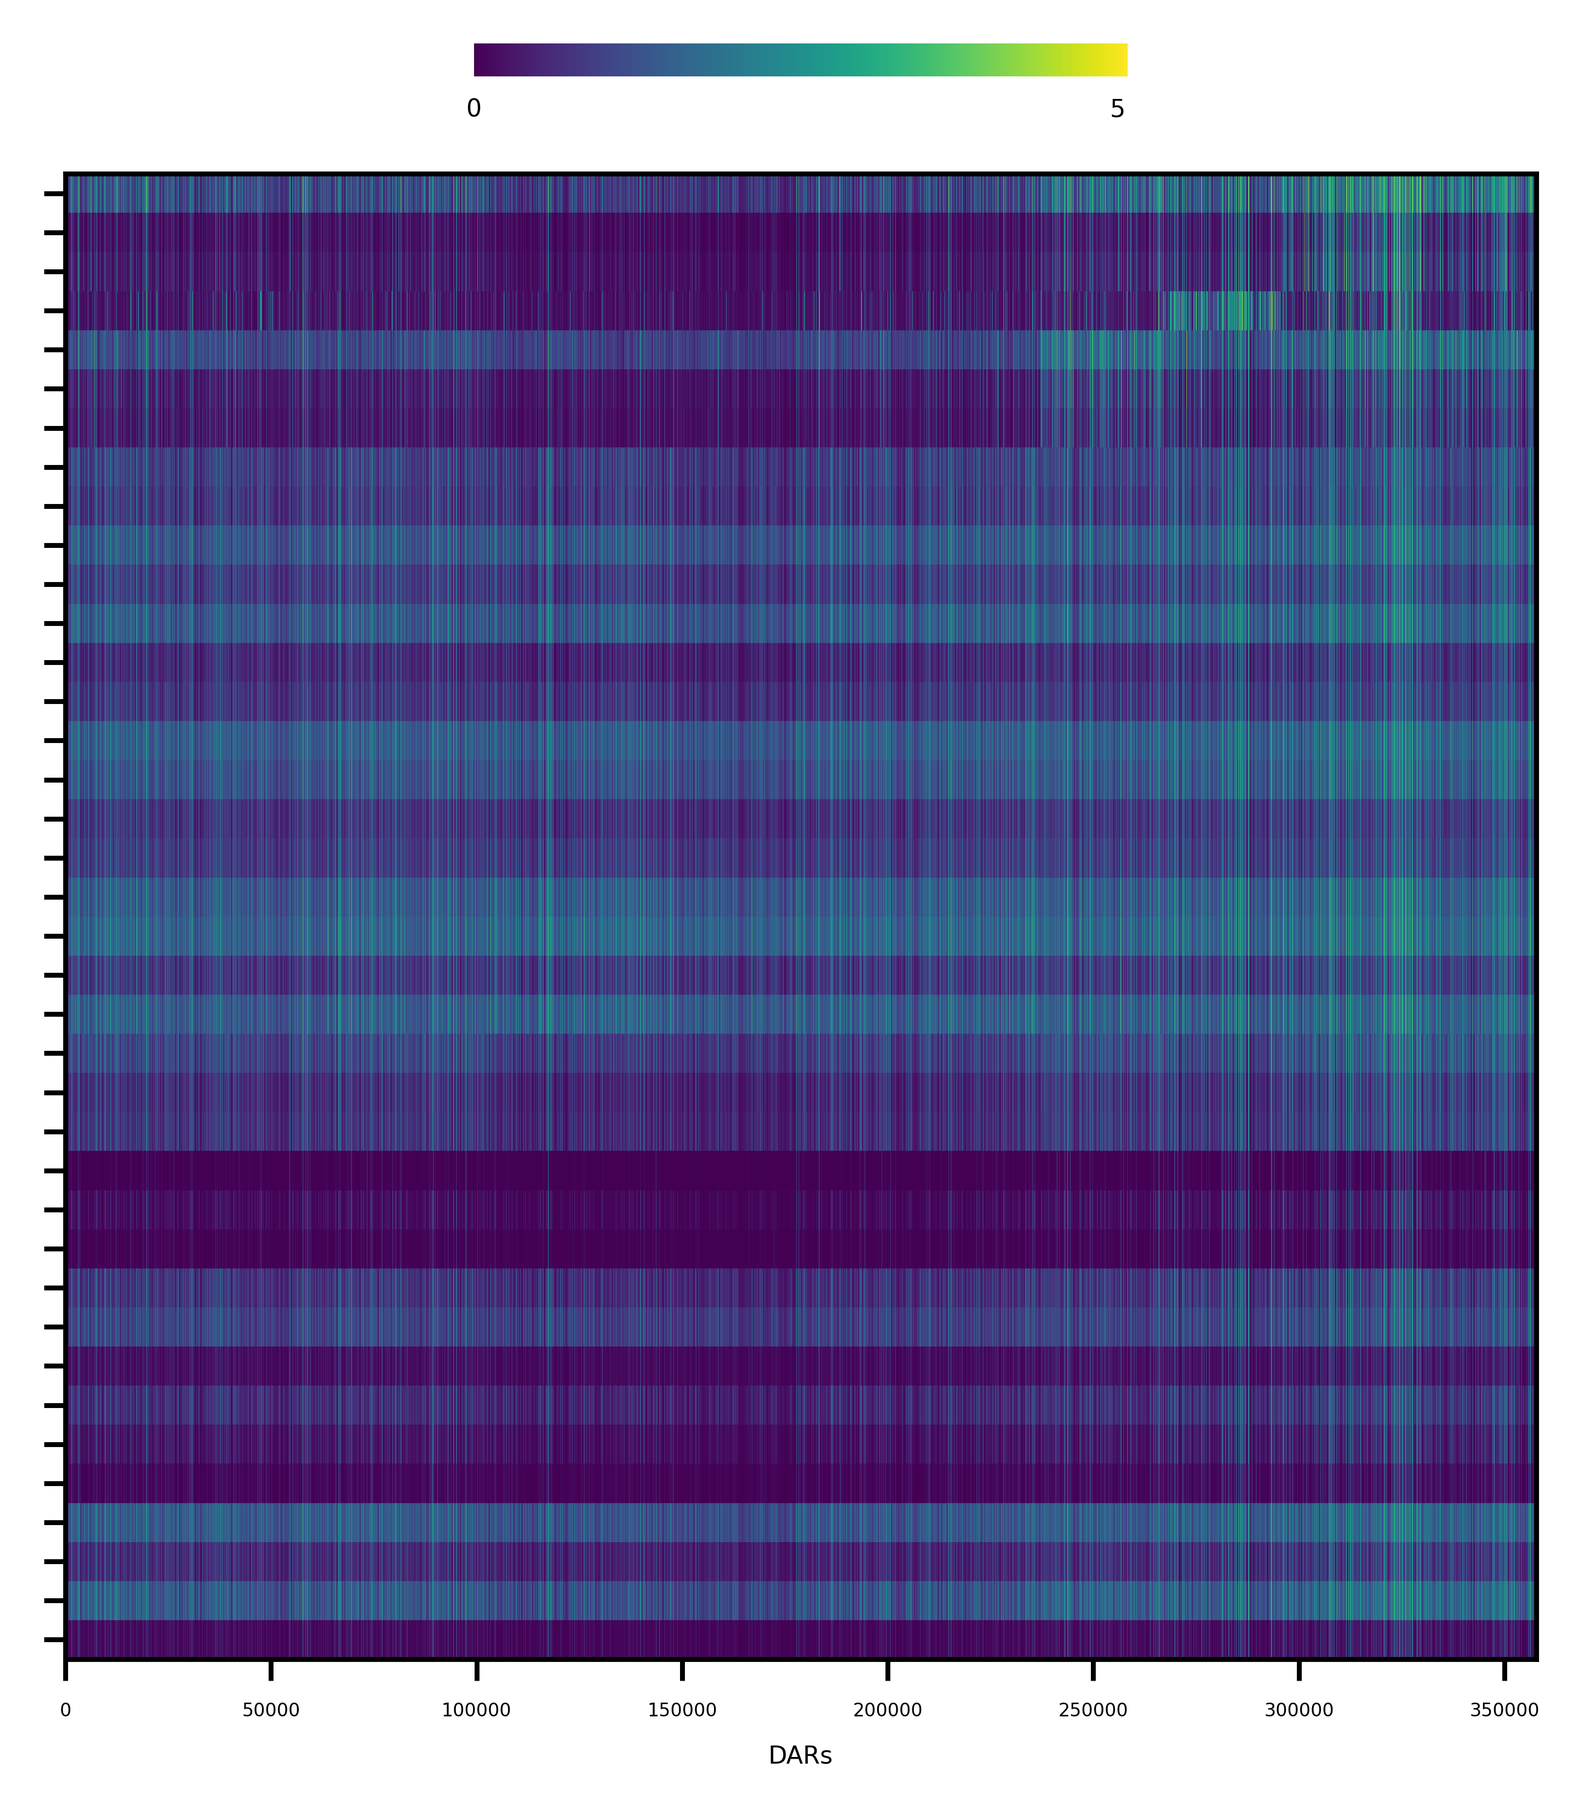
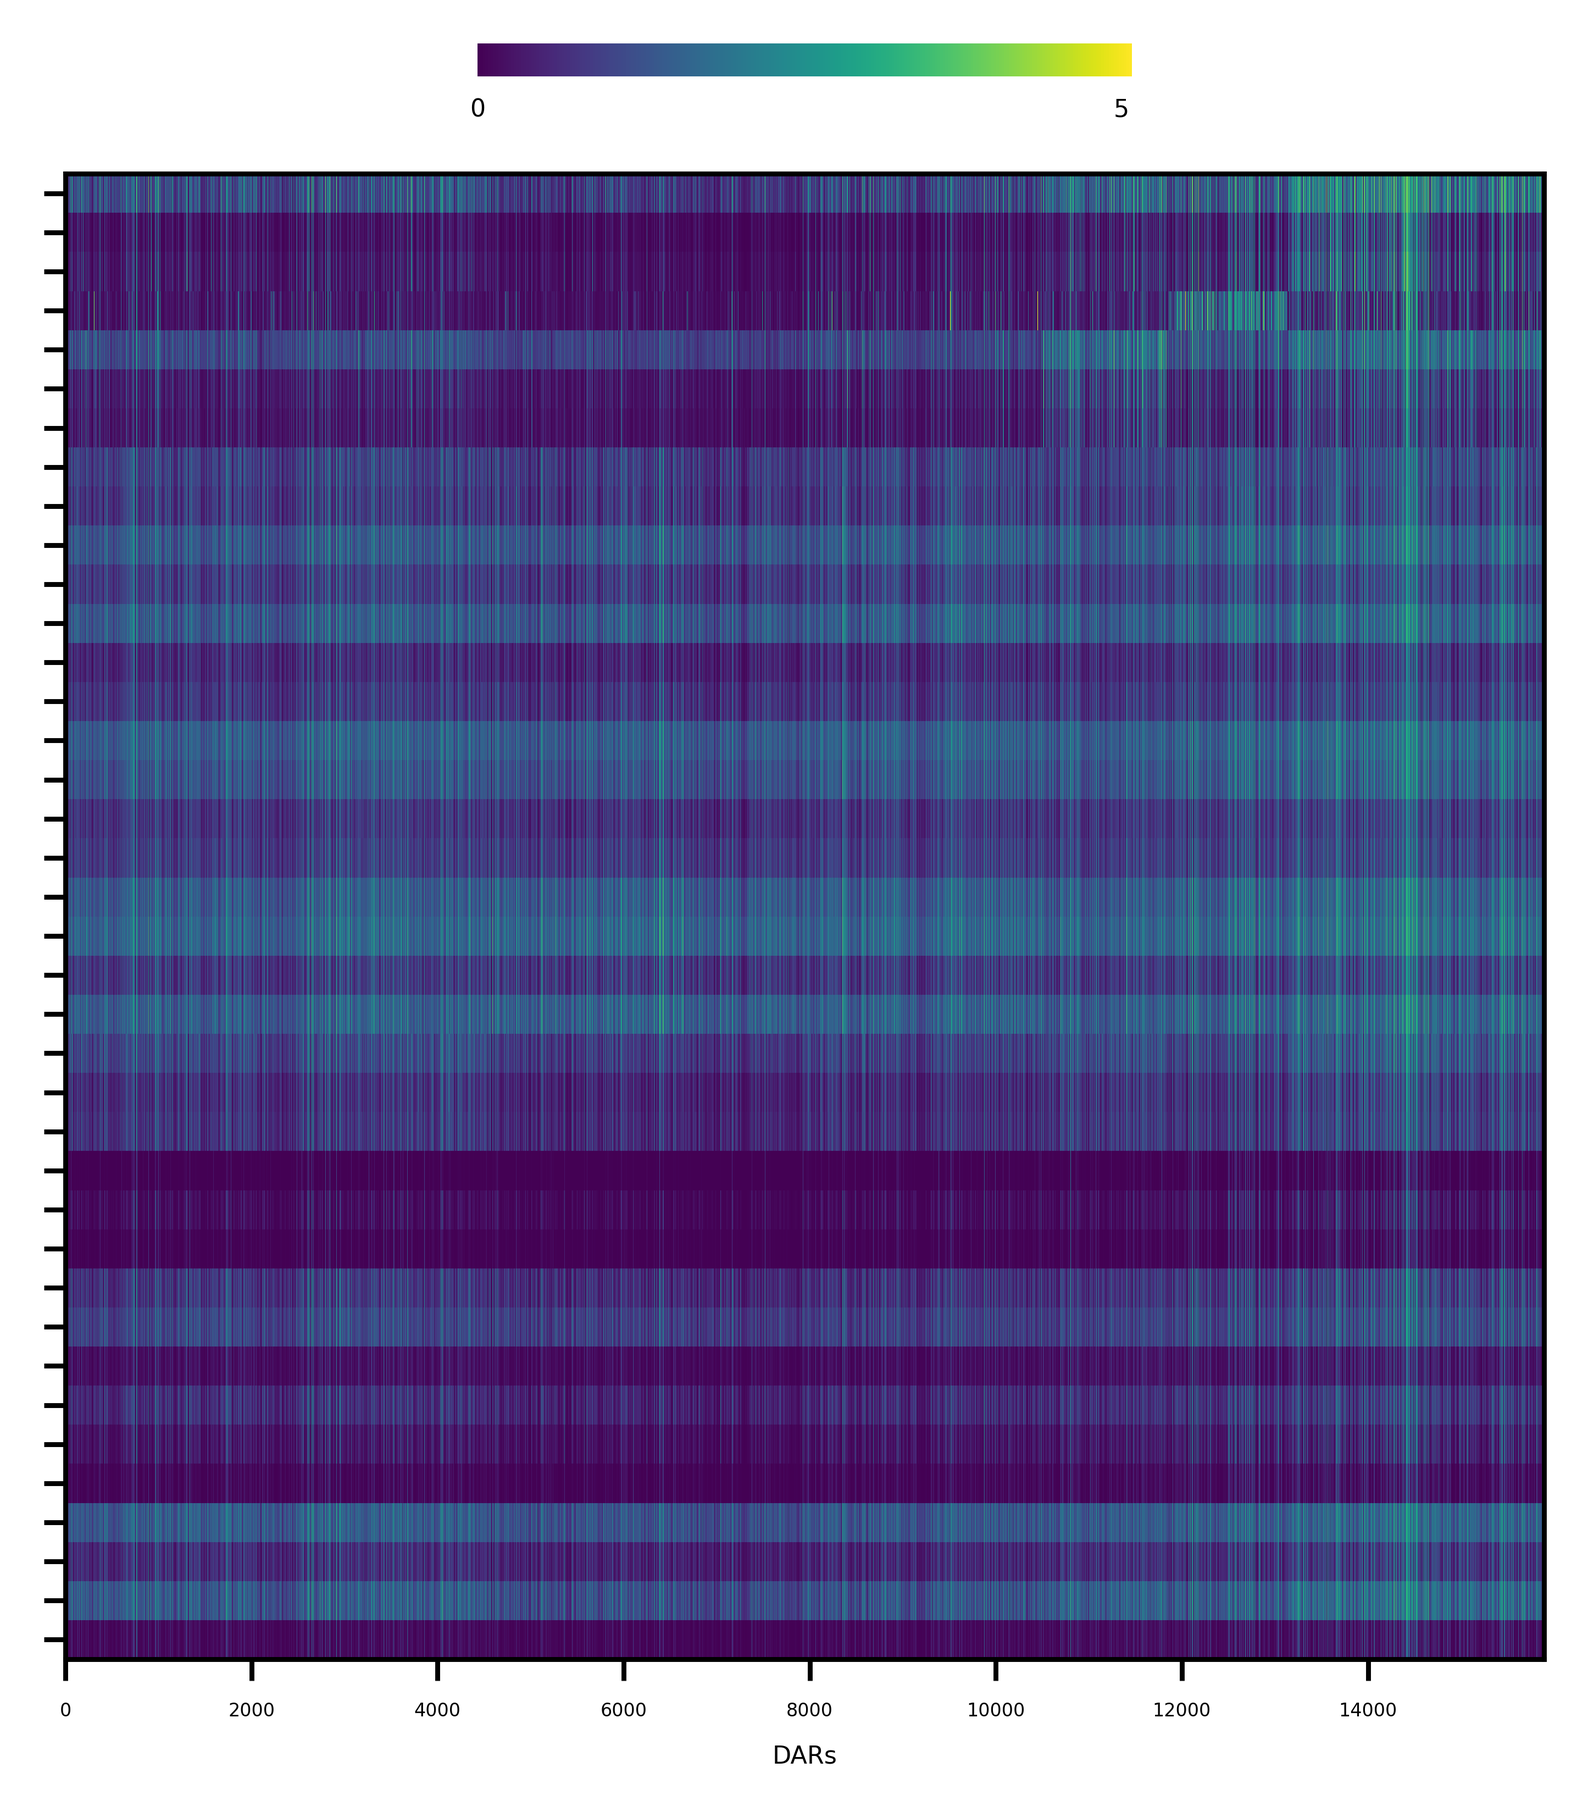
DAR plots

diff --git a/dar/correlation_per_DAR/AC-level/plot_correlation_test_DAR_aclevel.py b/dar/correlation_per_DAR/AC-level/plot_correlation_test_DAR_aclevel.py
@@ -21,59 +21,65 @@ df_correlations['Index1'] = df_correlations.index
 
 pred = np.loadtxt('/exports/humgen/idenhond/projects/dar/correlation_per_DAR/AC-level/Predictions_test_DAR_aclevel.csv',delimiter=',')
 target = np.loadtxt('/exports/humgen/idenhond/projects/dar/correlation_per_DAR/AC-level/Targets_test_DAR_aclevel.csv',delimiter=',')
-
-# fig, ax = plt.subplots()
-# plt.imshow(pred, interpolation='none', cmap='viridis', origin = 'lower', extent = [0, 357690, 0, 38], aspect=9500)
-# ax.set_yticks(np.arange(len(ac_labels)) + 0.5, ac_labels)
-# ax.set_yticklabels([], va='center', fontsize=4)
-# ax.xaxis.set_tick_params(labelsize=3)
-# cbar = plt.colorbar(shrink=0.3, orientation = "horizontal", location = 'top', fraction=0.026, pad=0.06)
-# cbar.outline.set_visible(False)
-# cbar.set_ticks([0, 5])
-# cbar.set_ticklabels([0, 5])
-# cbar.ax.tick_params(size=0, labelsize = 4)
-# cbar.ax.xaxis.set_ticks_position('bottom')
-# cbar.ax.xaxis.set_label_position('bottom')
-# plt.xlabel('DARs', fontsize = 4)
-# plt.savefig('/exports/humgen/idenhond/projects/enformer/correlation/plots_paper/Plots_paper/Fig4_DAR/Heatmap_DAR_ACLevel_PredictedValues_test.png', bbox_inches='tight', dpi = 800)
+print(pred.shape, target.shape)
 
 fig, ax = plt.subplots()
-# plt.imshow(pred, interpolation='none', cmap='viridis', origin = 'lower', extent = [0, 357690, 0, 38], aspect=9500)
-sns.clustermap(pred, row_cluster=False)
+plt.imshow(pred, interpolation='none', cmap='viridis', origin = 'lower', extent = [0, 15893, 0, 38], aspect=420) # aspect is 15893 / 38, aanpassen voor andere extent values
 ax.set_yticks(np.arange(len(ac_labels)) + 0.5, ac_labels)
-# ax.set_yticklabels([], va='center', fontsize=4)
-# ax.xaxis.set_tick_params(labelsize=3)
-# cbar = plt.colorbar(shrink=0.3, orientation = "horizontal", location = 'top', fraction=0.026, pad=0.06)
-# cbar.outline.set_visible(False)
-# cbar.set_ticks([0, 5])
-# cbar.set_ticklabels([0, 5])
-# cbar.ax.tick_params(size=0, labelsize = 4)
-# cbar.ax.xaxis.set_ticks_position('bottom')
-# cbar.ax.xaxis.set_label_position('bottom')
-# plt.xlabel('DARs', fontsize = 4)
-plt.savefig('/exports/humgen/idenhond/projects/enformer/correlation/plots_paper/Plots_paper/Fig4_DAR/Heatmap_DAR_ACLevel_PredictedValues_test_clustermap.png', bbox_inches='tight', dpi = 800)
+ax.set_yticklabels([], va='center', fontsize=4)
+ax.xaxis.set_tick_params(labelsize=3)
+cbar = plt.colorbar(shrink=0.3, orientation = "horizontal", location = 'top', fraction=0.026, pad=0.06)
+cbar.outline.set_visible(False)
+cbar.set_ticks([0, 5])
+cbar.set_ticklabels([0, 5])
+cbar.ax.tick_params(size=0, labelsize = 4)
+cbar.ax.xaxis.set_ticks_position('bottom')
+cbar.ax.xaxis.set_label_position('bottom')
+plt.xlabel('DARs', fontsize = 4)
+plt.savefig('/exports/humgen/idenhond/projects/enformer/correlation/plots_paper/Plots_paper/Fig4_DAR/Heatmap_DAR_ACLevel_PredictedValues_test.png', bbox_inches='tight', dpi = 800)
+
 
 fig, ax = plt.subplots()
-sns.clustermap(target, row_cluster=False)
+plt.imshow(target, interpolation='none', cmap='viridis', origin = 'lower', extent = [0, 15893, 0, 38], aspect=420)
 ax.set_yticks(np.arange(len(ac_labels)) + 0.5, ac_labels)
-plt.savefig('/exports/humgen/idenhond/projects/enformer/correlation/plots_paper/Plots_paper/Fig4_DAR/Heatmap_DAR_ACLevel_TargetValues_test_clustermap.png', bbox_inches='tight', dpi = 800)
+ax.set_yticklabels(ac_labels, va='center', fontsize=4)
+ax.xaxis.set_tick_params(labelsize=3)
+cbar = plt.colorbar(shrink=0.3, orientation = "horizontal", location = 'top', fraction=0.026, pad=0.06)
+cbar.outline.set_visible(False)
+cbar.set_ticks([0, 60])
+cbar.set_ticklabels([0, 60])
+cbar.ax.tick_params(size=0, labelsize = 4)
+cbar.ax.xaxis.set_ticks_position('bottom')
+cbar.ax.xaxis.set_label_position('bottom')
+plt.xlabel('DARs', fontsize = 4)
+plt.savefig('/exports/humgen/idenhond/projects/enformer/correlation/plots_paper/Plots_paper/Fig4_DAR/Heatmap_DAR_ACLevel_TargetValues_test.png', bbox_inches='tight', dpi = 800)
+plt.savefig('Heatmap_DAR_ACLevel_TargetValues_test.png', bbox_inches='tight', dpi = 800)
 
+
+# probeersel voor clustermap werkt niet echt nog
+# fig, ax = plt.subplots()
+# # plt.imshow(pred, interpolation='none', cmap='viridis', origin = 'lower', extent = [0, 357690, 0, 38], aspect=9500)
+# sns.clustermap(pred, row_cluster=False)
+# ax.set_yticks(np.arange(len(ac_labels)) + 0.5, ac_labels)
+# # ax.set_yticklabels([], va='center', fontsize=4)
+# # ax.xaxis.set_tick_params(labelsize=3)
+# # cbar = plt.colorbar(shrink=0.3, orientation = "horizontal", location = 'top', fraction=0.026, pad=0.06)
+# # cbar.outline.set_visible(False)
+# # cbar.set_ticks([0, 5])
+# # cbar.set_ticklabels([0, 5])
+# # cbar.ax.tick_params(size=0, labelsize = 4)
+# # cbar.ax.xaxis.set_ticks_position('bottom')
+# # cbar.ax.xaxis.set_label_position('bottom')
+# # plt.xlabel('DARs', fontsize = 4)
+# plt.savefig('/exports/humgen/idenhond/projects/enformer/correlation/plots_paper/Plots_paper/Fig4_DAR/Heatmap_DAR_ACLevel_PredictedValues_test_clustermap.png', bbox_inches='tight', dpi = 800)
 
 # fig, ax = plt.subplots()
-# plt.imshow(target, interpolation='none', cmap='viridis', origin = 'lower', extent = [0, 357690, 0, 38], aspect=9500)
+# sns.clustermap(target, row_cluster=False)
 # ax.set_yticks(np.arange(len(ac_labels)) + 0.5, ac_labels)
-# ax.set_yticklabels(ac_labels, va='center', fontsize=4)
-# ax.xaxis.set_tick_params(labelsize=3)
-# cbar = plt.colorbar(shrink=0.3, orientation = "horizontal", location = 'top', fraction=0.026, pad=0.06)
-# cbar.outline.set_visible(False)
-# cbar.set_ticks([0, 60])
-# cbar.set_ticklabels([0, 60])
-# cbar.ax.tick_params(size=0, labelsize = 4)
-# cbar.ax.xaxis.set_ticks_position('bottom')
-# cbar.ax.xaxis.set_label_position('bottom')
-# plt.xlabel('DARs', fontsize = 4)
-# plt.savefig('/exports/humgen/idenhond/projects/enformer/correlation/plots_paper/Plots_paper/Fig4_DAR/Heatmap_DAR_ACLevel_TargetValues_test.png', bbox_inches='tight', dpi = 800)
-# plt.savefig('Heatmap_DAR_ACLevel_TargetValues_test.png', bbox_inches='tight', dpi = 800)
+# plt.savefig('/exports/humgen/idenhond/projects/enformer/correlation/plots_paper/Plots_paper/Fig4_DAR/Heatmap_DAR_ACLevel_TargetValues_test_clustermap.png', bbox_inches='tight', dpi = 800)
+
+
+exit() 
 
 df_withnames = pd.read_csv('/exports/humgen/idenhond/data/basenji_preprocess/human_atac_targets_Ac-level_cluster.csv', sep = '\t')
 df_correlations['Class'] = df_correlations['Full name'].str.split(' ').str[0]

diff --git a/dar/correlation_per_DAR/AC-level/plot_correlation_test_DAR_aclevel_allenformerseqs.py b/dar/correlation_per_DAR/AC-level/plot_correlation_test_DAR_aclevel_allenformerseqs.py
@@ -13,7 +13,6 @@ idx_subclass_sorted = df_ac['Index old'].to_list()
 ac_labels = df_ac['names'].to_list()
 class_labels = df_ac['Class'].to_list()
 
-
 df_withnames = pd.read_csv('/exports/humgen/idenhond/data/basenji_preprocess/human_atac_targets_Ac-level_cluster.csv', sep = '\t')
 df_correlations = pd.read_csv('/exports/humgen/idenhond/projects/dar/correlation_per_DAR/AC-level/Correlation_DAR_aclevel.csv', index_col = 'Unnamed: 0')
 df_correlations['Index1'] = df_correlations.index
@@ -35,38 +34,40 @@ print(pred.shape)
 target = np.loadtxt('/exports/humgen/idenhond/projects/dar/correlation_per_DAR/AC-level/Targets_DAR_aclevel.csv' ,delimiter=',')
 print(target.shape)
 
-# fig, ax = plt.subplots()
-# plt.imshow(pred, interpolation='none', cmap='viridis', origin = 'lower', extent = [0, 357690, 0, 38], aspect=9500)
-# ax.set_yticks(np.arange(len(ac_labels)) + 0.5, ac_labels)
-# ax.set_yticklabels([], va='center', fontsize=4)
-# ax.xaxis.set_tick_params(labelsize=3)
-# cbar = plt.colorbar(shrink=0.3, orientation = "horizontal", location = 'top', fraction=0.026, pad=0.06)
-# cbar.outline.set_visible(False)
-# cbar.set_ticks([0, 5])
-# cbar.set_ticklabels([0, 5])
-# cbar.ax.tick_params(size=0, labelsize = 4)
-# cbar.ax.xaxis.set_ticks_position('bottom')
-# cbar.ax.xaxis.set_label_position('bottom')
-# plt.xlabel('DARs', fontsize = 4)
-# plt.savefig('/exports/humgen/idenhond/projects/enformer/correlation/plots_paper/Plots_paper/Fig4_DAR/Heatmap_DAR_ACLevel_PredictedValues_allseqs.png', bbox_inches='tight', dpi = 800)
-# plt.savefig('Heatmap_DAR_ACLevel_PredictedValues_allseqs.png', bbox_inches='tight', dpi = 800)
+fig, ax = plt.subplots()
+plt.imshow(pred, interpolation='none', cmap='viridis', origin = 'lower', extent = [0, 357690, 0, 38], aspect=9500)
+ax.set_yticks(np.arange(len(ac_labels)) + 0.5, ac_labels)
+ax.set_yticklabels([], va='center', fontsize=4)
+ax.xaxis.set_tick_params(labelsize=3)
+cbar = plt.colorbar(shrink=0.3, orientation = "horizontal", location = 'top', fraction=0.026, pad=0.06)
+cbar.outline.set_visible(False)
+cbar.set_ticks([0, 5])
+cbar.set_ticklabels([0, 5])
+cbar.ax.tick_params(size=0, labelsize = 4)
+cbar.ax.xaxis.set_ticks_position('bottom')
+cbar.ax.xaxis.set_label_position('bottom')
+plt.xlabel('DARs', fontsize = 4)
+plt.savefig('/exports/humgen/idenhond/projects/enformer/correlation/plots_paper/Plots_paper/Fig4_DAR/Heatmap_DAR_ACLevel_PredictedValues_allseqs.png', bbox_inches='tight', dpi = 800)
+plt.savefig('Heatmap_DAR_ACLevel_PredictedValues_allseqs.png', bbox_inches='tight', dpi = 800)
 
-# fig, ax = plt.subplots()
-# plt.imshow(target, interpolation='none', cmap='viridis', origin = 'lower', extent = [0, 357690, 0, 38], aspect=9500)
-# ax.set_yticks(np.arange(len(ac_labels)) + 0.5, ac_labels)
-# ax.set_yticklabels(ac_labels, va='center', fontsize=4)
-# ax.xaxis.set_tick_params(labelsize=3)
-# cbar = plt.colorbar(shrink=0.3, orientation = "horizontal", location = 'top', fraction=0.026, pad=0.06)
-# cbar.outline.set_visible(False)
-# cbar.set_ticks([0, 60])
-# cbar.set_ticklabels([0, 60])
-# cbar.ax.tick_params(size=0, labelsize = 4)
-# cbar.ax.xaxis.set_ticks_position('bottom')
-# cbar.ax.xaxis.set_label_position('bottom')
-# plt.xlabel('DARs', fontsize = 4)
-# plt.savefig('/exports/humgen/idenhond/projects/enformer/correlation/plots_paper/Plots_paper/Fig4_DAR/Heatmap_DAR_ACLevel_TargetValues_allseqs.png', bbox_inches='tight', dpi = 800)
-# plt.savefig('Heatmap_DAR_ACLevel_TargetValues_allseqs.png', bbox_inches='tight', dpi = 800)
+fig, ax = plt.subplots()
+plt.imshow(target, interpolation='none', cmap='viridis', origin = 'lower', extent = [0, 357690, 0, 38], aspect=9500)
+ax.set_yticks(np.arange(len(ac_labels)) + 0.5, ac_labels)
+ax.set_yticklabels(ac_labels, va='center', fontsize=4)
+ax.xaxis.set_tick_params(labelsize=3)
+cbar = plt.colorbar(shrink=0.3, orientation = "horizontal", location = 'top', fraction=0.026, pad=0.06)
+cbar.outline.set_visible(False)
+cbar.set_ticks([0, 60])
+cbar.set_ticklabels([0, 60])
+cbar.ax.tick_params(size=0, labelsize = 4)
+cbar.ax.xaxis.set_ticks_position('bottom')
+cbar.ax.xaxis.set_label_position('bottom')
+plt.xlabel('DARs', fontsize = 4)
+plt.savefig('/exports/humgen/idenhond/projects/enformer/correlation/plots_paper/Plots_paper/Fig4_DAR/Heatmap_DAR_ACLevel_TargetValues_allseqs.png', bbox_inches='tight', dpi = 800)
+plt.savefig('Heatmap_DAR_ACLevel_TargetValues_allseqs.png', bbox_inches='tight', dpi = 800)
 
+
+exit()
 # df_correlations = df_correlations.sort_values(by = 'Correlation')
 print(df_correlations.tail(20))
 print(df_correlations[(df_correlations['Correlation'] > 0.8) & (df_correlations['Correlation'] < 0.81)])

diff --git a/dar/correlation_per_DAR/AC-level/compare_pred_target_cluster.py b/dar/correlation_per_DAR/AC-level/compare_pred_target_cluster.py
@@ -9,28 +9,24 @@ target_ac_test = np.loadtxt('/exports/humgen/idenhond/projects/dar/correlation_p
 print(pred_ac_test.shape)
 print(target_ac_test.shape)
 
-# pred_ac = np.loadtxt('/exports/humgen/idenhond/projects/dar/correlation_per_DAR/AC-level/Predictions_DAR_aclevel.csv',delimiter=',')
-# target_ac = np.loadtxt('/exports/humgen/idenhond/projects/dar/correlation_per_DAR/AC-level/Targets_DAR_aclevel.csv',delimiter=',')
+pred_ac = np.loadtxt('/exports/humgen/idenhond/projects/dar/correlation_per_DAR/AC-level/Predictions_DAR_aclevel.csv',delimiter=',')
+target_ac = np.loadtxt('/exports/humgen/idenhond/projects/dar/correlation_per_DAR/AC-level/Targets_DAR_aclevel.csv',delimiter=',')
 
 
-# print(pred_ac.shape)
-# print(target_ac.shape)
-
-# exit()
+print(pred_ac.shape)
+print(target_ac.shape)
 
 idx_subclass = [35, 29,  30, 36, 37, 39, 40, 33, 25, 38, 41, 42, 31, 27, 28, 32, 8, 9, 10, 5, 6, 11, 12, 13, 19, 17, 15, 16, 21, 18, 20, 3, 1, 2, 52, 56, 57, 59] #38
 
 df_withnames = pd.read_csv('/exports/humgen/idenhond/data/basenji_preprocess/human_atac_targets_Ac-level_cluster.csv', sep = '\t')
 print(df_withnames)
 
-
 aantal_goed = 0 
-aantal_goed_nr = 0
 with open(f'/exports/humgen/idenhond/projects/dar/correlation_per_DAR/AC-level/Clusters_pred_target_ac_test.txt', 'w') as file:
     file.truncate(0)
     header = ['nr', 'target', 'prediction', '\n']
     file.write('\t'.join(header))
-    for i in range(15893):
+    for i in range(pred_ac_test.shape[1]):
         pred_values = pred_ac_test[:, i]
         target_values = target_ac_test[:, i]
 
@@ -44,8 +40,27 @@ with open(f'/exports/humgen/idenhond/projects/dar/correlation_per_DAR/AC-level/C
         file.write('\t'.join([str(i), class_target, class_pred]))
         file.write('\n')
         if class_pred == class_target: aantal_goed += 1
-        if idx_subclass_max_target == idx_subclass_max_pred: aantal_goed_nr += 1
         # if i == 5: break
+print(f'aantal goed AC test: {aantal_goed} van de {pred_ac_test.shape[1]}')
 
-print(f'aantal goed: {aantal_goed}')
-print(f'aantal goed nr: {aantal_goed_nr}')
+aantal_goed = 0 
+with open(f'/exports/humgen/idenhond/projects/dar/correlation_per_DAR/AC-level/Clusters_pred_target_ac.txt', 'w') as file:
+    file.truncate(0)
+    header = ['nr', 'target', 'prediction', '\n']
+    file.write('\t'.join(header))
+    for i in range(pred_ac.shape[1]):
+        pred_values = pred_ac[:, i]
+        target_values = target_ac[:, i]
+
+        maximal_target_value = list(target_values).index(max(target_values))
+        idx_subclass_max_target = idx_subclass[maximal_target_value]
+        maximal_pred_value = list(pred_values).index(max(pred_values))
+        idx_subclass_max_pred = idx_subclass[maximal_pred_value]
+
+        class_target = df_withnames[df_withnames['Index old'] == idx_subclass_max_target]['names'].values[0]
+        class_pred = df_withnames[df_withnames['Index old'] == idx_subclass_max_pred]['names'].values[0]
+        file.write('\t'.join([str(i), class_target, class_pred]))
+        file.write('\n')
+        if class_pred == class_target: aantal_goed += 1
+        # if i == 5: break
+print(f'aantal goed AC: {aantal_goed} van de {pred_ac.shape[1]}')

diff --git a/dar/correlation_per_DAR/AC-level/plot_pred_target_clusters.py b/dar/correlation_per_DAR/AC-level/plot_pred_target_clusters.py
@@ -1,0 +1,43 @@
+from sklearn.metrics import confusion_matrix
+import matplotlib.pyplot as plt
+import seaborn as sns
+import pandas as pd
+
+
+# labels
+df_labels = pd.read_csv('/exports/humgen/idenhond/data/basenji_preprocess/human_atac_targets_Ac-level_cluster_noduplicates.csv', sep = '\t')
+labels_list = df_labels['names'].tolist()
+
+# enformer test sequences
+df = pd.read_csv('/exports/humgen/idenhond/projects/dar/correlation_per_DAR/AC-level/Clusters_pred_target_ac_test.txt', sep = '\t')
+preds = df['prediction'].tolist()
+targets = df['target'].tolist()
+print(df['target'].value_counts())
+print(df['prediction'].value_counts())
+cm = confusion_matrix(targets, preds, labels = labels_list)
+cm_df = pd.DataFrame(cm, index = labels_list, columns = labels_list)
+fig, ax = plt.subplots(figsize = (10,10))
+cpalette = sns.color_palette("Blues", as_cmap=True)
+ax = sns.heatmap(cm_df, annot = False, square = True, cmap = cpalette, cbar_kws={"shrink": 0.7})
+ax.tick_params(axis='both', which='major', labelsize=7)
+plt.xlabel('AC-level cluster of highest predicted value', fontsize = 8)
+plt.ylabel('AC-level cluster of highest observed value', fontsize = 8)
+plt.savefig('cm_test_ac.png', bbox_inches = 'tight', dpi = 300)
+plt.savefig('/exports/humgen/idenhond/projects/enformer/correlation/plots_paper/Plots_paper/Fig4_DAR/cm_test_ac.png', bbox_inches = 'tight', dpi = 300)
+plt.close()
+
+# all enformer sequences
+df = pd.read_csv('/exports/humgen/idenhond/projects/dar/correlation_per_DAR/AC-level/Clusters_pred_target_ac.txt', sep = '\t')
+preds = df['prediction'].tolist()
+targets = df['target'].tolist()
+cm = confusion_matrix(targets, preds)
+cm_df = pd.DataFrame(cm, index = labels_list, columns = labels_list)
+fig, ax = plt.subplots(figsize = (10,10))
+cpalette = sns.color_palette("Blues", as_cmap=True)
+ax = sns.heatmap(cm_df, annot = False, square = True, cmap = cpalette, cbar_kws={"shrink": 0.7})
+ax.tick_params(axis='both', which='major', labelsize=7)
+plt.xlabel('AC-level cluster of highest predicted value', fontsize = 8)
+plt.ylabel('AC-level cluster of highest observed value', fontsize = 8)
+plt.savefig('cm_ac.png', bbox_inches = 'tight', dpi = 300)
+plt.savefig('/exports/humgen/idenhond/projects/enformer/correlation/plots_paper/Plots_paper/Fig4_DAR/cm_ac.png', bbox_inches = 'tight', dpi = 300)
+plt.close()
